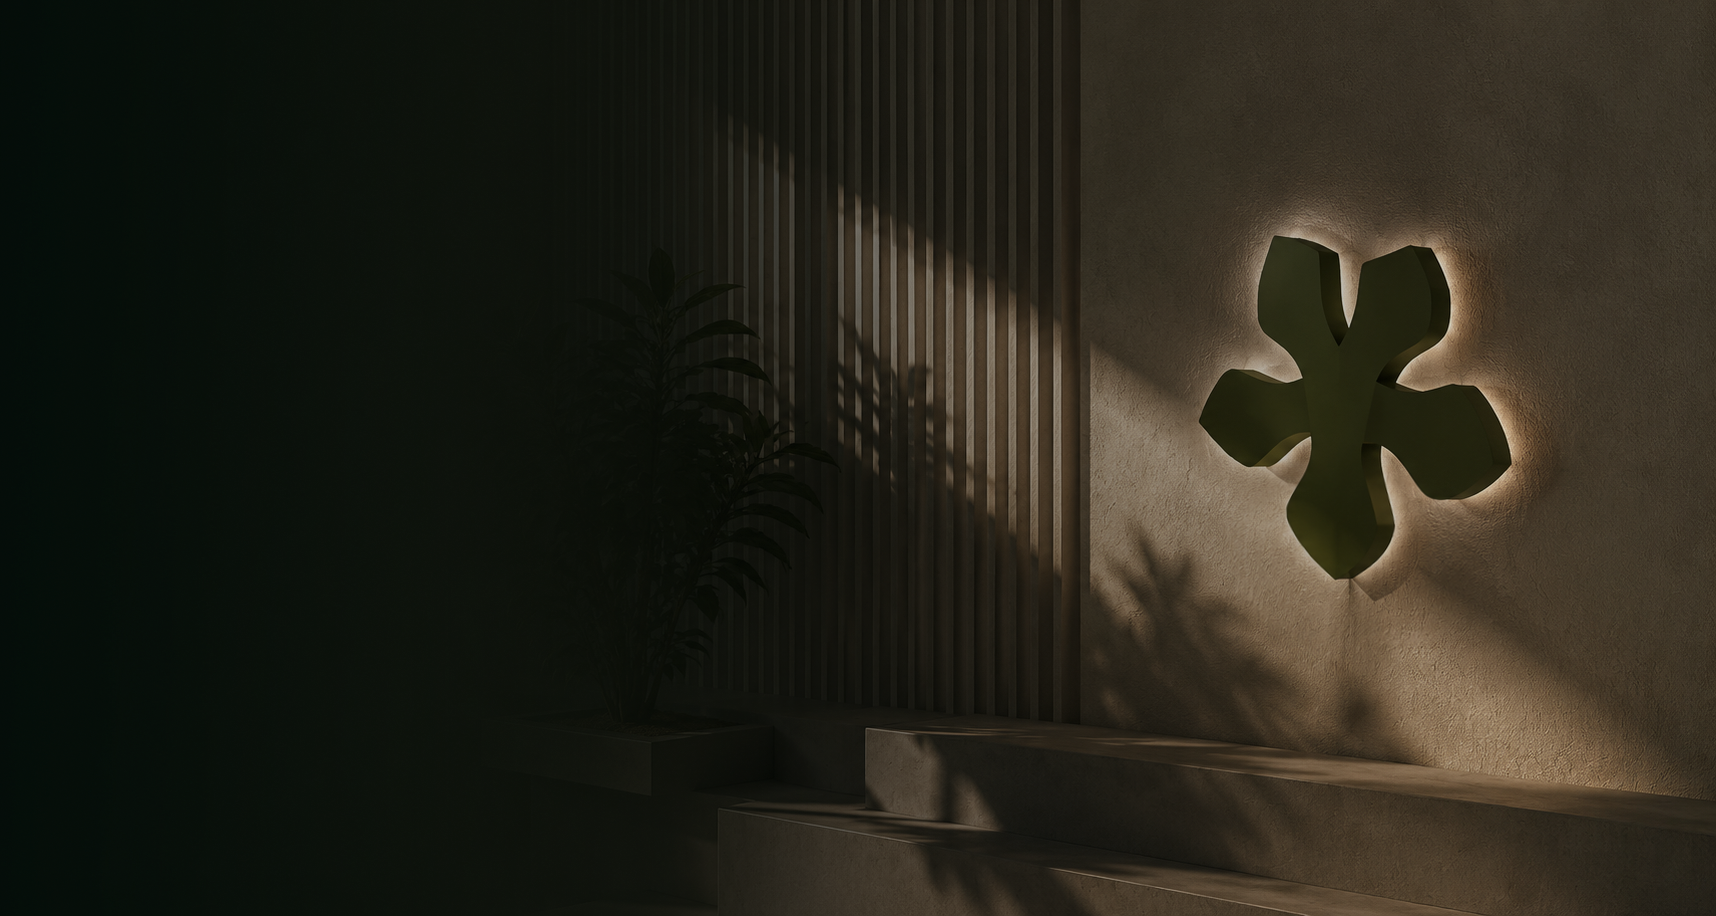
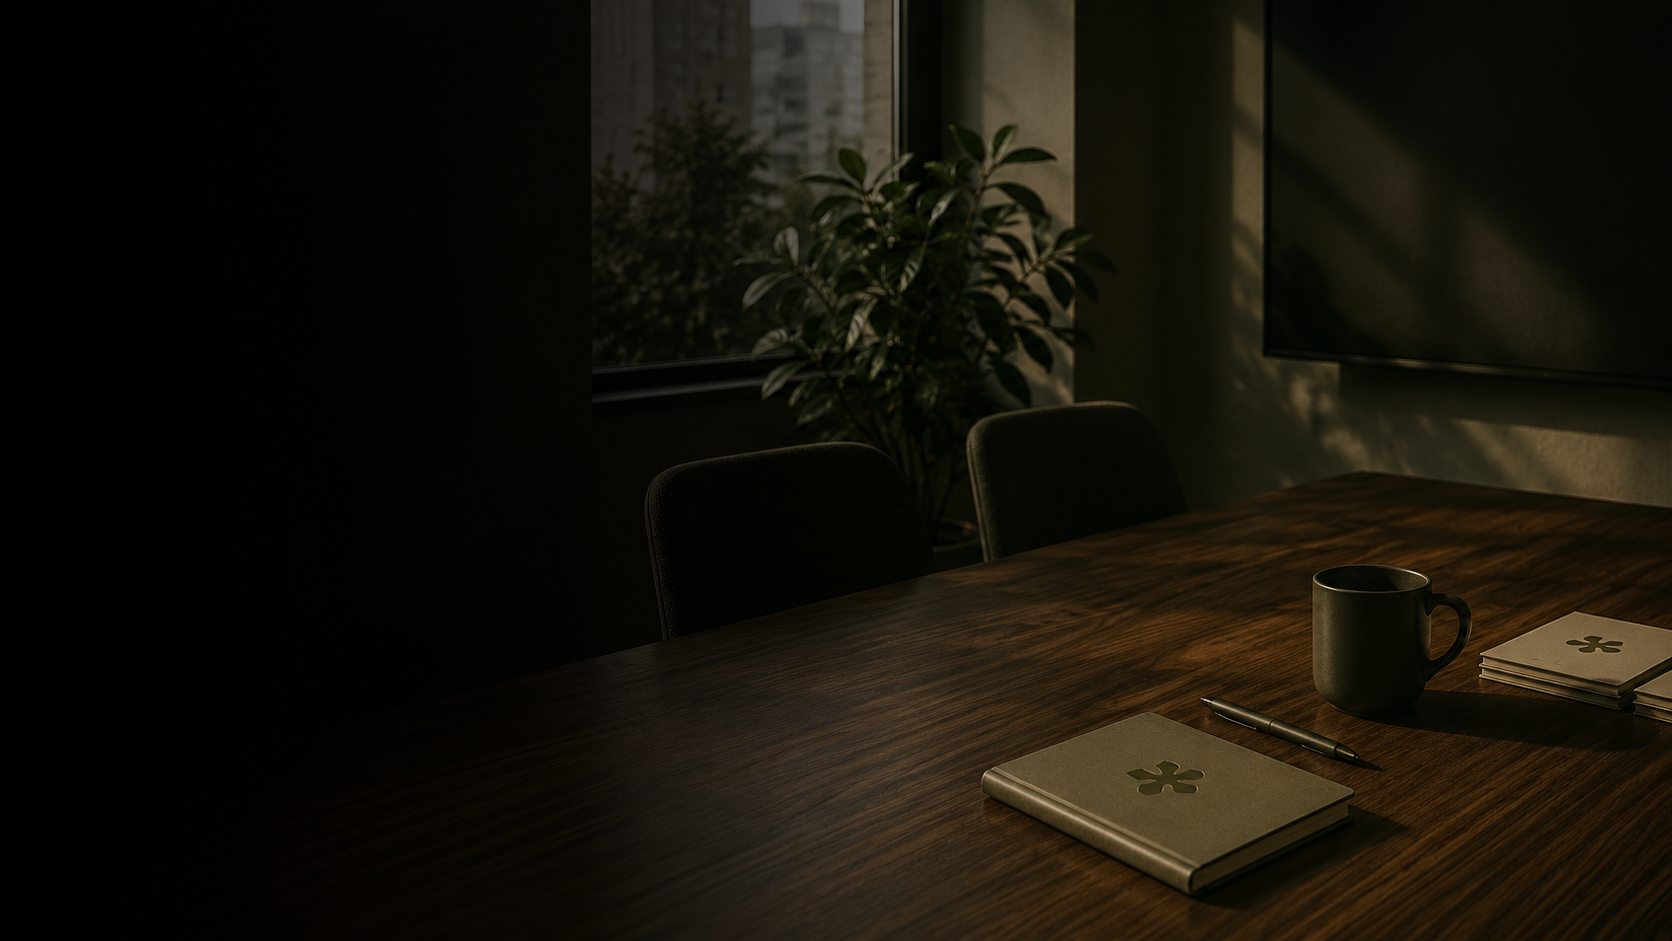
fix(CTASection): use new photo only on Services page, restore original on home

diff --git a/src/components/ServicesLanding.tsx b/src/components/ServicesLanding.tsx
@@ -361,7 +361,7 @@ export default function ServicesPage() {
         <div className="max-w-[1440px] mx-auto px-6 w-full">
           <div className="relative overflow-hidden rounded-[28px] px-12 py-20 sm:px-20 sm:py-28">
             <img
-              src="/thallo-digital/cta-bg.png"
+              src="/thallo-digital/cta-bg-services.png"
               alt=""
               aria-hidden="true"
               className="absolute inset-0 w-full h-full object-cover pointer-events-none select-none"